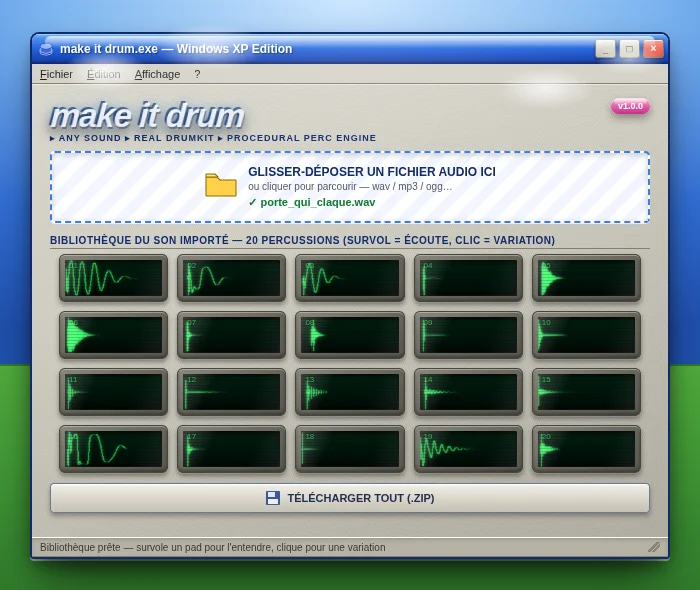
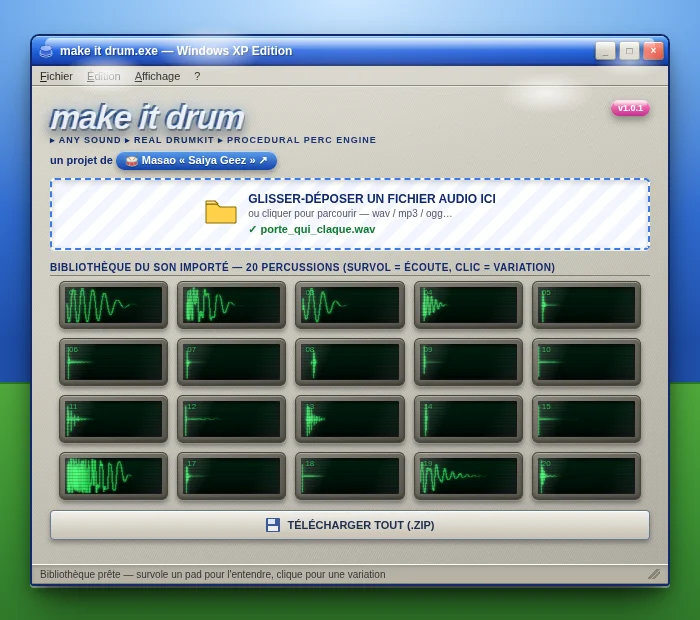
Vitrine : crédit Masao « Saiya Geez » sur make it drum, capture v1.0.1

Changed region(s): [[0.06, 0.0305, 0.96, 0.8847], [0.06, 0.9153, 0.96, 0.9763], [0.99, 0.6102, 1.0, 0.6407]]

diff --git a/index.html b/index.html
@@ -1219,7 +1219,7 @@
         </div>
         <img class="fc-shot" src="shots/makeitdrum.webp" alt="make it drum : fenetre Windows XP avec 20 pads de percussions et leurs formes d'onde" loading="lazy">
         <div class="fc-title">make it drum.exe</div>
-        <div class="fc-desc">N'importe quel son devient un kit de 20 percussions : un moteur Web Audio procedural filtre, replie, sature et resonne le sample importe. Survol = ecoute, clic = variation, export du kit en .zip. Un seul fichier HTML, zero dependance, ambiance Windows XP.</div>
+        <div class="fc-desc">Un projet de Masao « Saiya Geez » (beacons.ai/saiyageez). N'importe quel son devient un kit de 20 percussions : un moteur Web Audio procedural filtre, replie, sature et resonne le sample importe. Survol = ecoute, clic = variation, export du kit en .zip. Un seul fichier HTML, zero dependance, ambiance Windows XP.</div>
         <div class="fc-tags">
           <span class="fc-tag">Web Audio</span>
           <span class="fc-tag">drum machine</span>
